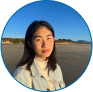
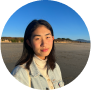
update image border

diff --git a/src/README.md b/src/README.md
@@ -57,7 +57,7 @@ highlights:
             link: /guide/
 
     - header: Editing this Site
-      description: This site is powered by <a href="https://v2.vuepress.vuejs.org/">VuePress</a> using the <a href="https://theme-hope.vuejs.press/">Hope Theme</a>. The Markdown sources can be found on our GitHub repo on the docs branch.<br/><br/>Run <code>npm docs:dev</code> to run the documentation site locally. By default, it will be hosted at <code>localhost:8080</code>, or whichever link the terminal displays.<br/><br/><b>Resources:</b>
+      description: This site is powered by <a href="https://v2.vuepress.vuejs.org/">VuePress</a> using <a href="https://theme-hope.vuejs.press/">Theme Hope</a>. The Markdown sources can be found on our <a href="https://github.com/calblueprint/immigration-justice-project/tree/docs" target="_blank">GitHub repo</a> on the docs branch.<br/><br/>Run <code>npm docs:dev</code> to run the documentation site locally. By default, it will be hosted at <code>localhost:8080</code>, or whichever link the terminal displays.<br/><br/><b>Resources:</b>
       image: /assets/image/blog.svg
       bgImage: https://theme-hope-assets.vuejs.press/bg/2-light.svg
       bgImageDark: https://theme-hope-assets.vuejs.press/bg/2-dark.svg
